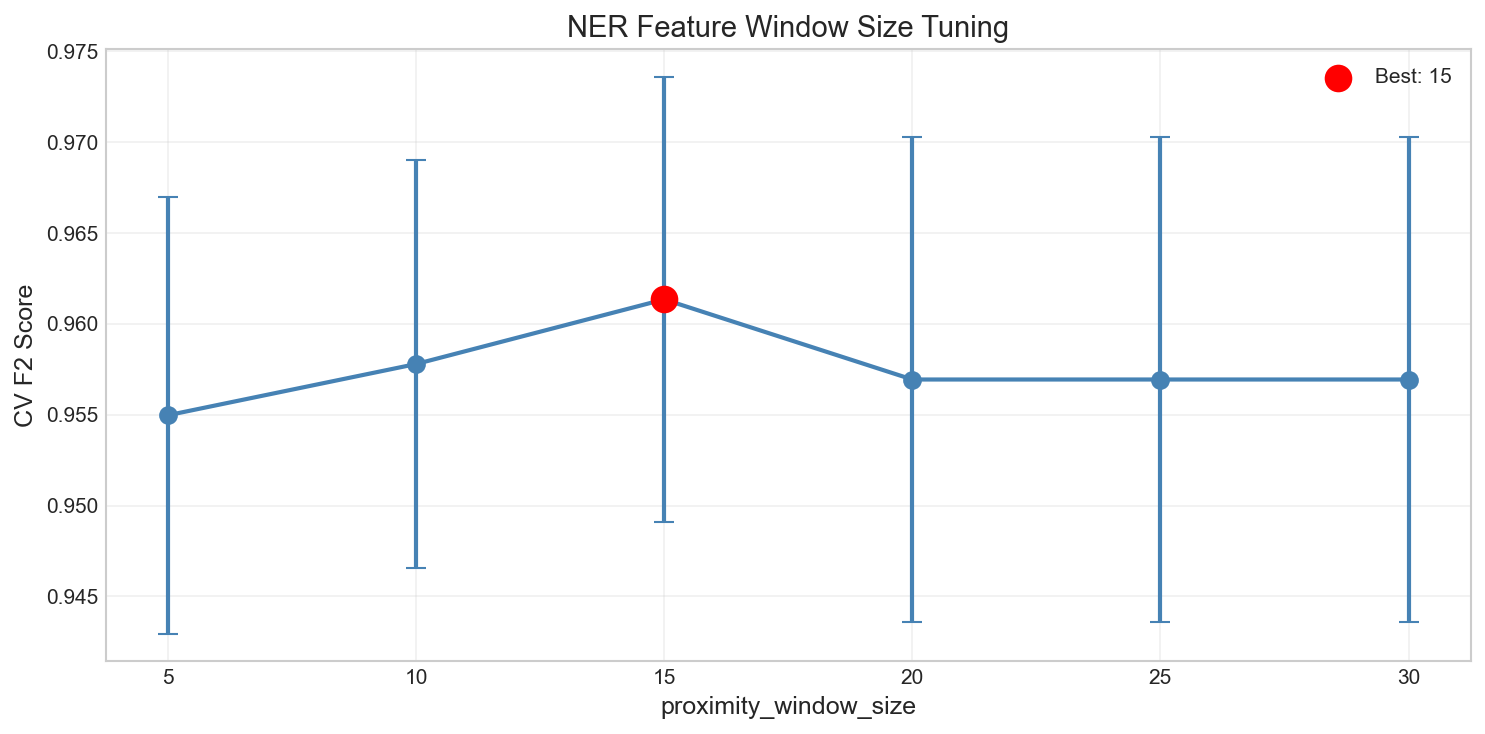
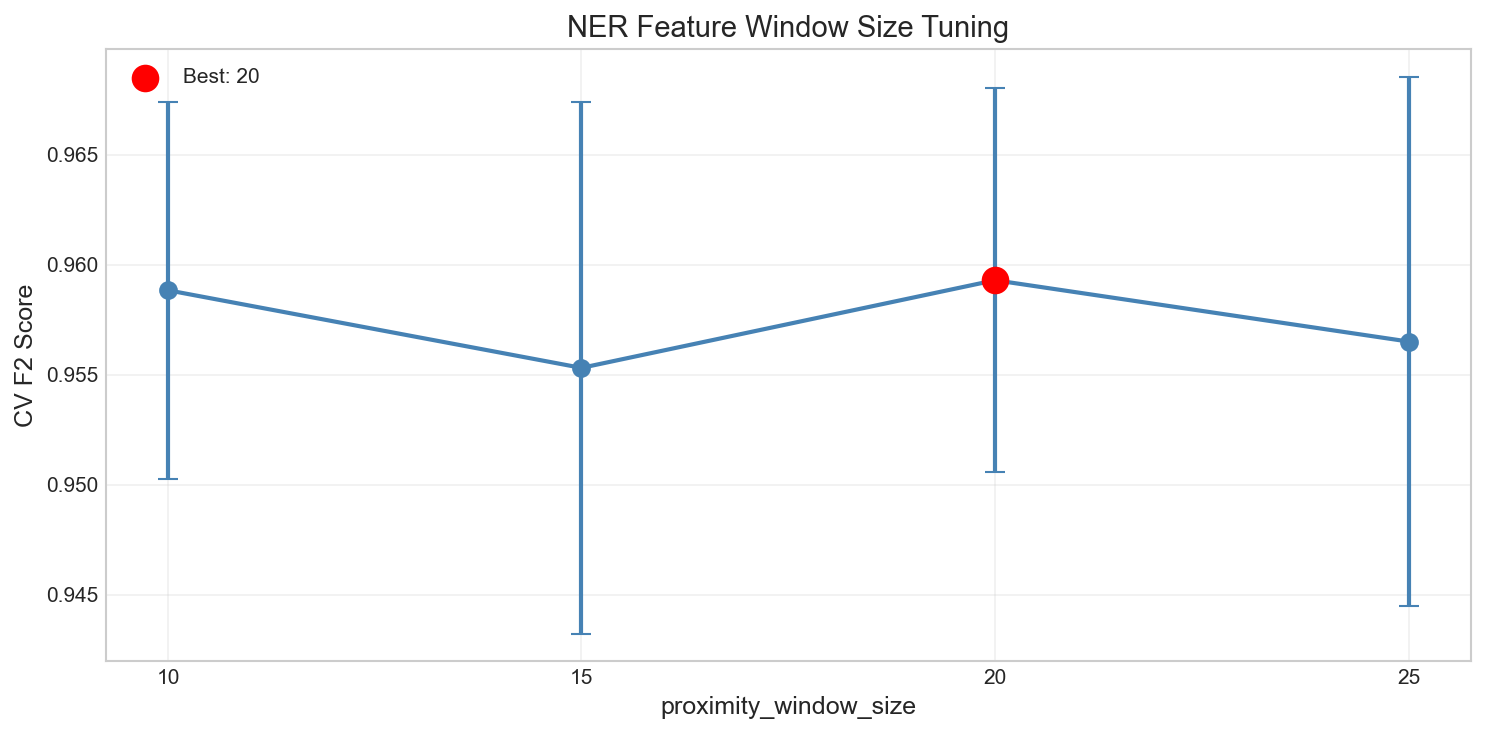
Update documentation with 3-notebook FP classifier pipeline
- Document fp1/fp2/fp3 notebook structure and artifact flow
- Update model performance metrics (Test F2: 0.974, Recall: 98.8%)
- Add src/fp2_nb and src/fp3_nb utility packages to docs
- Update training data counts (993 FP records)
- Include notebook pipeline diagram in README

🤖 Generated with [Claude Code](https://claude.com/claude-code)

diff --git a/README.md b/README.md
@@ -111,7 +111,9 @@ sportswear-esg-news-classifier/
 │   ├── cron_scrape.sh          # Cron wrapper for GDELT collection
 │   └── setup_cron.sh           # User-friendly cron management
 ├── notebooks/
-│   └── fp1_classifier.ipynb    # False Positive Brand Classifier notebook
+│   ├── fp1_EDA_FE.ipynb              # EDA & Feature Engineering (exports transformer)
+│   ├── fp2_model_selection_tuning.ipynb  # Model selection & hyperparameter tuning
+│   └── fp3_model_evaluation_deployment.ipynb  # Test evaluation & deployment export
 ├── models/                     # Saved ML models (gitignored)
 ├── src/
 │   ├── data_collection/
@@ -133,12 +135,21 @@ sportswear-esg-news-classifier/
 │   │   ├── evidence_matcher.py # Match excerpts to chunks via similarity
 │   │   ├── database.py         # Labeling-specific DB operations
 │   │   └── pipeline.py         # Orchestrates full labeling flow
-│   └── fp1_nb/                 # FP classifier notebook utilities
+│   ├── fp1_nb/                 # FP classifier - EDA & feature engineering
+│   │   ├── __init__.py
+│   │   ├── data_utils.py       # Data loading, splitting, target analysis
+│   │   ├── eda_utils.py        # Text analysis, brand distribution, word frequencies
+│   │   ├── preprocessing.py    # Text cleaning, feature engineering
+│   │   ├── feature_transformer.py  # Sentence transformer + NER features
+│   │   ├── ner_analysis.py     # Named entity recognition utilities
+│   │   └── modeling.py         # GridSearchCV, model evaluation, comparison
+│   ├── fp2_nb/                 # FP classifier - model selection & tuning
+│   │   ├── __init__.py
+│   │   └── overfitting_analysis.py  # Train-val gap visualization
+│   └── fp3_nb/                 # FP classifier - evaluation & deployment
 │       ├── __init__.py
-│       ├── data_utils.py       # Data loading, splitting, target analysis
-│       ├── eda_utils.py        # Text analysis, brand distribution, word frequencies
-│       ├── preprocessing.py    # Text cleaning, TF-IDF pipeline
-│       └── modeling.py         # GridSearchCV, model evaluation, comparison
+│       ├── threshold_optimization.py  # Threshold tuning for target recall
+│       └── deployment.py       # Pipeline export utilities
 └── tests/
     ├── conftest.py             # Shared pytest fixtures
     ├── test_api_client.py      # NewsData.io client unit tests
@@ -454,13 +465,13 @@ uv run python scripts/export_training_data.py --dataset fp -o data/fp_data.jsonl
 
 The project is designed to train three progressively complex classifiers that can reduce Claude API costs while maintaining accuracy:
 
-**1. False Positive Brand Classifier** ✅ (Notebook Complete)
+**1. False Positive Brand Classifier** ✅ (Complete)
 - **Purpose**: Filter out articles where brand names match non-sportswear entities (e.g., "Puma" the animal, "Patagonia" the region, "Black Diamond" the power company)
 - **Input**: Article title + content + detected brand name
 - **Output**: Binary classification (is_sportswear: 0 or 1)
-- **Training Data**: 844 records from `--dataset fp` export (725 sportswear, 119 false positives)
+- **Training Data**: 993 records from `--dataset fp` export (856 sportswear, 137 false positives)
 - **Impact**: Prevents ~15% of articles from requiring expensive LLM labeling
-- **Best Model**: Logistic Regression with TF-IDF (PR-AUC: 0.9943)
+- **Best Model**: Random Forest with sentence-transformer + NER features (Test F2: 0.974, Recall: 0.988)
 
 **2. ESG Pre-filter Classifier**
 - **Purpose**: Quickly identify whether an article contains any ESG-relevant content before detailed classification
@@ -478,30 +489,59 @@ The project is designed to train three progressively complex classifiers that ca
 
 ### ML Classifier Notebooks
 
-The project includes Jupyter notebooks for developing and training the ML classifiers described in the previous section. These notebooks use supporting utility modules in `src/fp1_nb/` for consistent preprocessing and evaluation.
+The project includes a 3-notebook pipeline for developing and training the False Positive Brand Classifier. The notebooks use supporting utility modules in `src/fp1_nb/`, `src/fp2_nb/`, and `src/fp3_nb/` for consistent preprocessing and evaluation.
 
-#### False Positive Brand Classifier (`notebooks/fp1_classifier.ipynb`)
+#### Notebook Pipeline Overview
 
-A complete ML workflow for distinguishing sportswear brand articles from false positives (e.g., "Puma" the animal, "Patagonia" the region):
+```
+fp1_EDA_FE.ipynb          fp2_model_selection_tuning.ipynb          fp3_model_evaluation_deployment.ipynb
+(EDA & Features)          (Model Selection & Tuning)                 (Test Evaluation & Deployment)
+      │                              │                                          │
+      ▼                              ▼                                          ▼
+┌─────────────────┐        ┌─────────────────────┐              ┌────────────────────────────┐
+│ • Data loading  │        │ • Baseline models   │              │ • Load artifacts from      │
+│ • EDA           │        │ • GridSearchCV      │              │   fp1 and fp2              │
+│ • Feature eng   │ ────►  │ • Train-val gap     │ ──────────►  │ • Final test evaluation    │
+│ • Transformer   │        │ • Best model select │              │ • Threshold optimization   │
+│   export        │        │ • Model export      │              │ • Pipeline export          │
+└─────────────────┘        └─────────────────────┘              └────────────────────────────┘
+      │                              │                                          │
+      ▼                              ▼                                          ▼
+fp_feature_transformer.joblib  fp_best_classifier.joblib          fp_classifier_pipeline.joblib
+fp_feature_config.json         fp_cv_metrics.json                  fp_classifier_config.json
+```
 
-**Notebook Sections:**
-1. Data Loading & Exploration (844 articles)
-2. Target Variable Analysis (725 sportswear vs 119 false positives)
-3. Text Analysis & EDA (length distributions, brand distribution, word frequencies)
-4. Data Preprocessing (TF-IDF with text cleaning)
-5. Train/Validation/Test Split (60/20/20 stratified)
-6. Baseline Models (Logistic Regression, Naive Bayes, Linear SVM, Random Forest)
-7. Hyperparameter Tuning with GridSearchCV
-8. Model Selection & Final Test Evaluation
-9. Model Saving with joblib
+#### fp1_EDA_FE.ipynb - EDA & Feature Engineering
 
-**Performance:** Logistic Regression achieves PR-AUC: 0.9943, ROC-AUC: 0.9635, F1: 0.9614
+- **Data Loading**: 993 articles (856 sportswear, 137 false positives)
+- **EDA**: Text length distributions, brand distribution, word frequencies
+- **Feature Engineering**: Sentence-transformer embeddings + NER brand context features
+- **Hyperparameter Tuning**: Optimizes `proximity_window_size` for NER features
+- **Exports**: Feature transformer and configuration for fp2
 
-**Supporting Modules (`src/fp1_nb/`):**
-- `data_utils.py` - JSONL loading, target analysis, stratified splitting
-- `eda_utils.py` - Text length analysis, brand distribution, word frequencies
-- `preprocessing.py` - Text cleaning, feature engineering, TF-IDF pipelines
-- `modeling.py` - GridSearchCV utilities, model evaluation, comparison plots
+#### fp2_model_selection_tuning.ipynb - Model Selection & Tuning
+
+- **Baseline Models**: LR, RF, HGB with 3-fold stratified CV
+- **Hyperparameter Tuning**: GridSearchCV optimizing F2 score
+- **Overfitting Analysis**: Train-validation gap visualization
+- **Best Model**: Random Forest with `balanced_subsample` class weights
+- **Exports**: Best classifier and CV metrics for fp3
+
+#### fp3_model_evaluation_deployment.ipynb - Test Evaluation & Deployment
+
+- **Test Evaluation**: Final held-out test set evaluation (ONLY notebook using test data)
+- **Threshold Optimization**: Find optimal threshold for 98% target recall
+- **Pipeline Export**: Complete sklearn Pipeline for deployment
+
+**Performance (Random Forest):**
+- CV F2: 0.973, Test F2: 0.974
+- Test Recall: 98.8%, Test Precision: 91.9%
+- Optimized threshold: 0.605 (at 98% recall)
+
+**Supporting Modules:**
+- `src/fp1_nb/` - Data loading, EDA, feature transformer, NER analysis, modeling utilities
+- `src/fp2_nb/` - Train-validation gap analysis, overfitting visualization
+- `src/fp3_nb/` - Threshold optimization, deployment pipeline utilities
 
 ## Environment Variables
 
@@ -812,9 +852,12 @@ psql postgresql://postgres:postgres@localhost:5434/esg_news
 ### Phase 3: Model Development (Current)
 - [x] Export labeled data for training (JSONL format for 3 classifier types)
 - [x] False positive brand detection and cleanup tools
-- [x] False Positive Classifier notebook with full ML pipeline
-  - TF-IDF + Logistic Regression achieves PR-AUC: 0.9943
-  - Supporting modules in `src/fp1_nb/` for reusable utilities
+- [x] False Positive Classifier - 3-notebook pipeline complete
+  - fp1: EDA + sentence-transformer/NER feature engineering
+  - fp2: Model selection + hyperparameter tuning (3-fold CV)
+  - fp3: Test evaluation + threshold optimization + deployment export
+  - Random Forest achieves Test F2: 0.974, Recall: 98.8%
+  - Supporting modules in `src/fp1_nb/`, `src/fp2_nb/`, `src/fp3_nb/`
 - [ ] ESG Pre-filter Classifier: Does the article contain ESG content?
 - [ ] ESG Multi-label Classifier: Category classification with sentiment
 - [ ] Advanced: Fine-tuned DistilBERT/RoBERTa

diff --git a/CLAUDE.md b/CLAUDE.md
@@ -88,18 +88,35 @@ tail -f logs/gdelt_$(date +%Y%m%d).log       # View GDELT logs
 - `setup_cron.sh` - Install/remove/status commands for cron management
 
 ### ML Classifier Notebooks (`notebooks/`)
-- `fp1_classifier.ipynb` - False Positive Brand Classifier (TF-IDF + Logistic Regression, PR-AUC: 0.9943)
+
+**False Positive Classifier Pipeline (3 notebooks):**
+- `fp1_EDA_FE.ipynb` - EDA & Feature Engineering (exports transformer)
+- `fp2_model_selection_tuning.ipynb` - Model selection & hyperparameter tuning
+- `fp3_model_evaluation_deployment.ipynb` - Test evaluation & deployment export
+
+**Best Model:** Random Forest with sentence-transformer + NER features (Test F2: 0.974, Recall: 98.8%)
 
 **Notebook Standards:**
 - All package imports MUST be placed in the Setup section at the beginning of the notebook
 - Do not scatter imports throughout the notebook cells
 - Group imports: standard library, third-party packages, then project modules
 
-### Notebook Utilities (`src/fp1_nb/`)
+### Notebook Utilities
+
+**`src/fp1_nb/`** - EDA & feature engineering utilities:
 - `data_utils.py` - JSONL loading, target analysis, stratified train/val/test splitting
 - `eda_utils.py` - Text length analysis, brand distribution, word frequency analysis
-- `preprocessing.py` - Text cleaning, feature engineering, TF-IDF pipeline building
+- `preprocessing.py` - Text cleaning, feature engineering
+- `feature_transformer.py` - Sentence transformer + NER brand context features
+- `ner_analysis.py` - Named entity recognition utilities
 - `modeling.py` - GridSearchCV utilities, model evaluation metrics, comparison plots
+
+**`src/fp2_nb/`** - Model selection & tuning utilities:
+- `overfitting_analysis.py` - Train-validation gap visualization, iteration performance
+
+**`src/fp3_nb/`** - Evaluation & deployment utilities:
+- `threshold_optimization.py` - Threshold tuning for target recall
+- `deployment.py` - Pipeline export utilities
 
 ### Test Suite (`tests/`) - 190 tests, 72% coverage
 - `conftest.py` - Shared pytest fixtures
@@ -171,7 +188,7 @@ Sentiment values: +1 (positive), 0 (neutral), -1 (negative)
 
 Three classifiers to reduce Claude API costs while maintaining accuracy:
 
-1. **False Positive Brand Classifier** - Filter articles where brand names match non-sportswear entities (e.g., "Puma" animal, "Patagonia" region, "Black Diamond" power company). Binary classification using `--dataset fp` export.
+1. **False Positive Brand Classifier** ✅ - Filter articles where brand names match non-sportswear entities (e.g., "Puma" animal, "Patagonia" region, "Black Diamond" power company). Binary classification using `--dataset fp` export. **Complete**: Random Forest with Test F2: 0.974.
 
 2. **ESG Pre-filter Classifier** - Quickly identify if an article contains ESG content before detailed classification. Binary classification using `--dataset esg-prefilter` export.
 
@@ -191,9 +208,11 @@ Three classifiers to reduce Claude API costs while maintaining accuracy:
 - OpenAI embeddings for semantic matching
 
 ### Phase 3: Model Development (Current)
-- Export labeled data for training (844 FP, 725 ESG-prefilter, 554 ESG-labels records)
-- False Positive Classifier: TF-IDF + Logistic Regression (PR-AUC: 0.9943) ✅
-- ESG Pre-filter Classifier: In progress
+- Export labeled data for training (993 FP, 856 ESG-prefilter, 554 ESG-labels records)
+- False Positive Classifier: 3-notebook pipeline complete ✅
+  - Random Forest with sentence-transformer + NER features (Test F2: 0.974, Recall: 98.8%)
+  - Threshold optimized for 98% target recall
+- ESG Pre-filter Classifier: Planned
 - ESG Multi-label Classifier: Planned
 - Advanced: Fine-tuned DistilBERT/RoBERTa (future)
 
